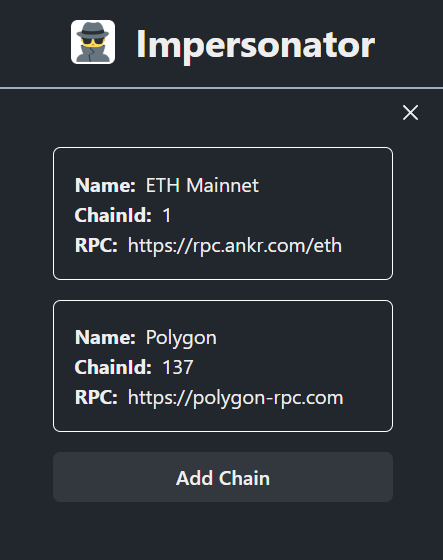
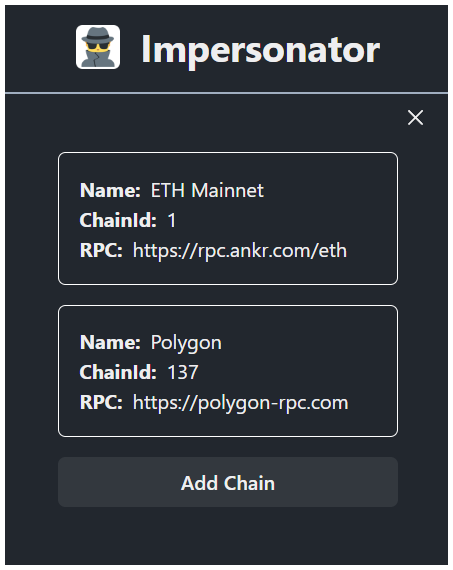
add borders to images

diff --git a/README.md b/README.md
@@ -60,5 +60,5 @@ Impersonator injects into the dapps just like Metamask, but gives you the freedo
 6. You can now open any dapp and connect wallet as Metamask. The dapp would detect your custom address and network.
 
 <br />
-⭐ Unique feature that differentiates it from other wallets: <b>You can have different address & chain injected in different browser tabs at the same time! </b><br />
+⭐ Unique feature that differentiates it from other wallets: <b>You can have different address & chain injected in different browser tabs at the same time! </b><br /><br />
 So in one tab you might have Uniswap connected to <code>Polygon</code> with <code>apoorv.eth</code> and in another one you can have Sushiswap connected to <code>Ethereum Mainnet</code> with <code>vitalik.eth</code>
